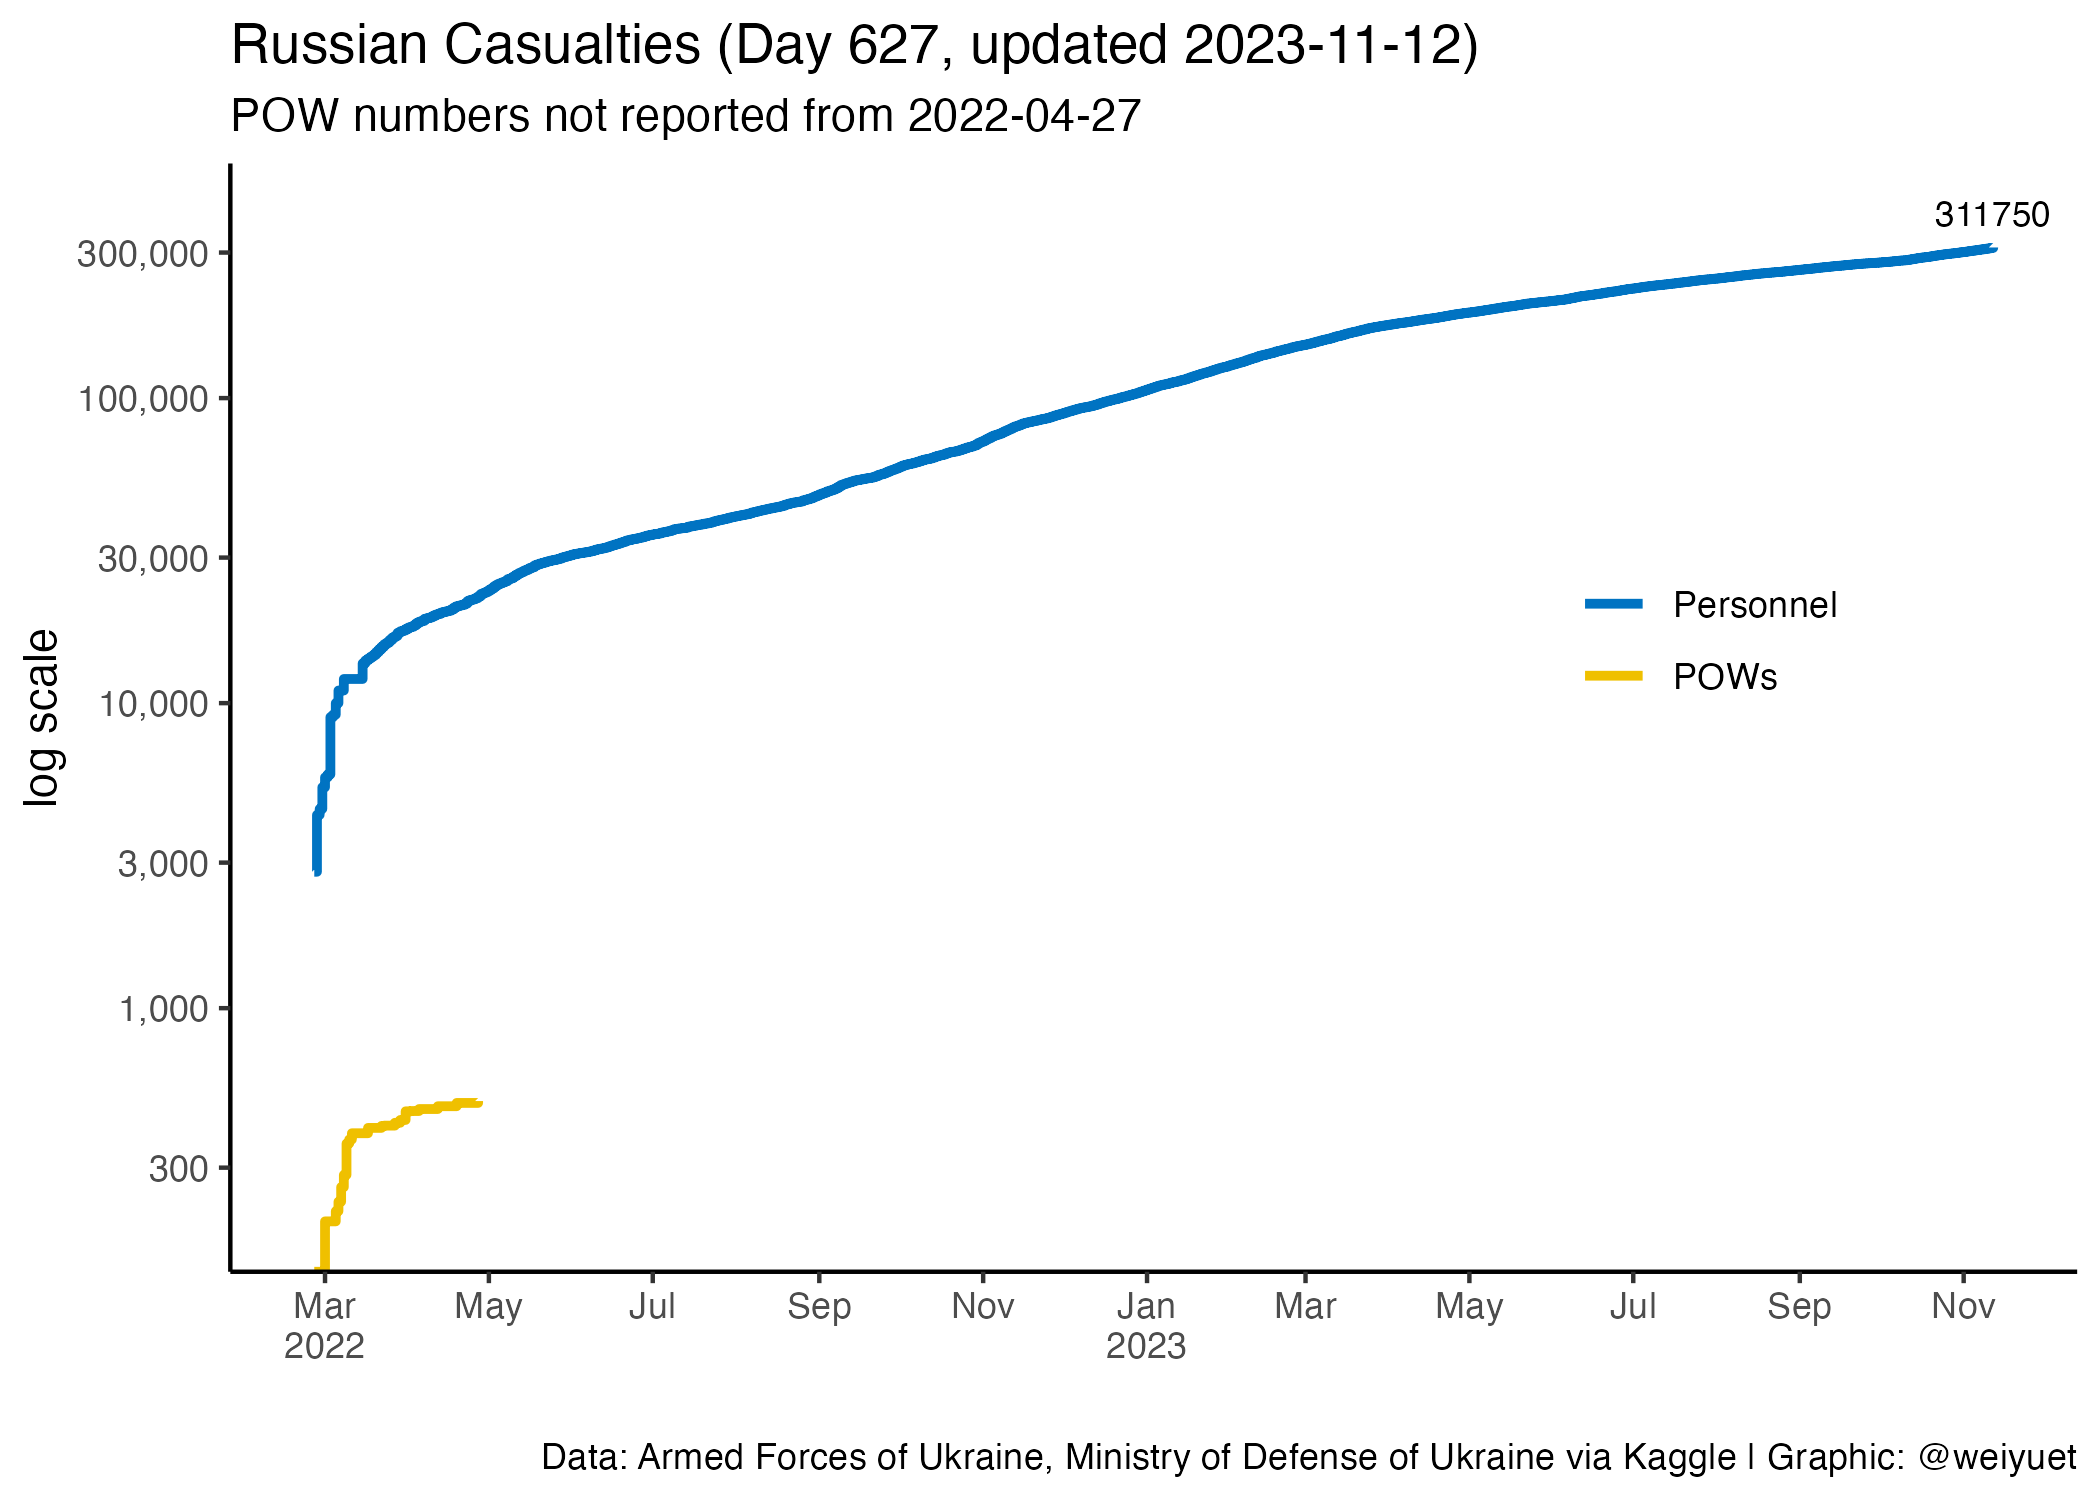
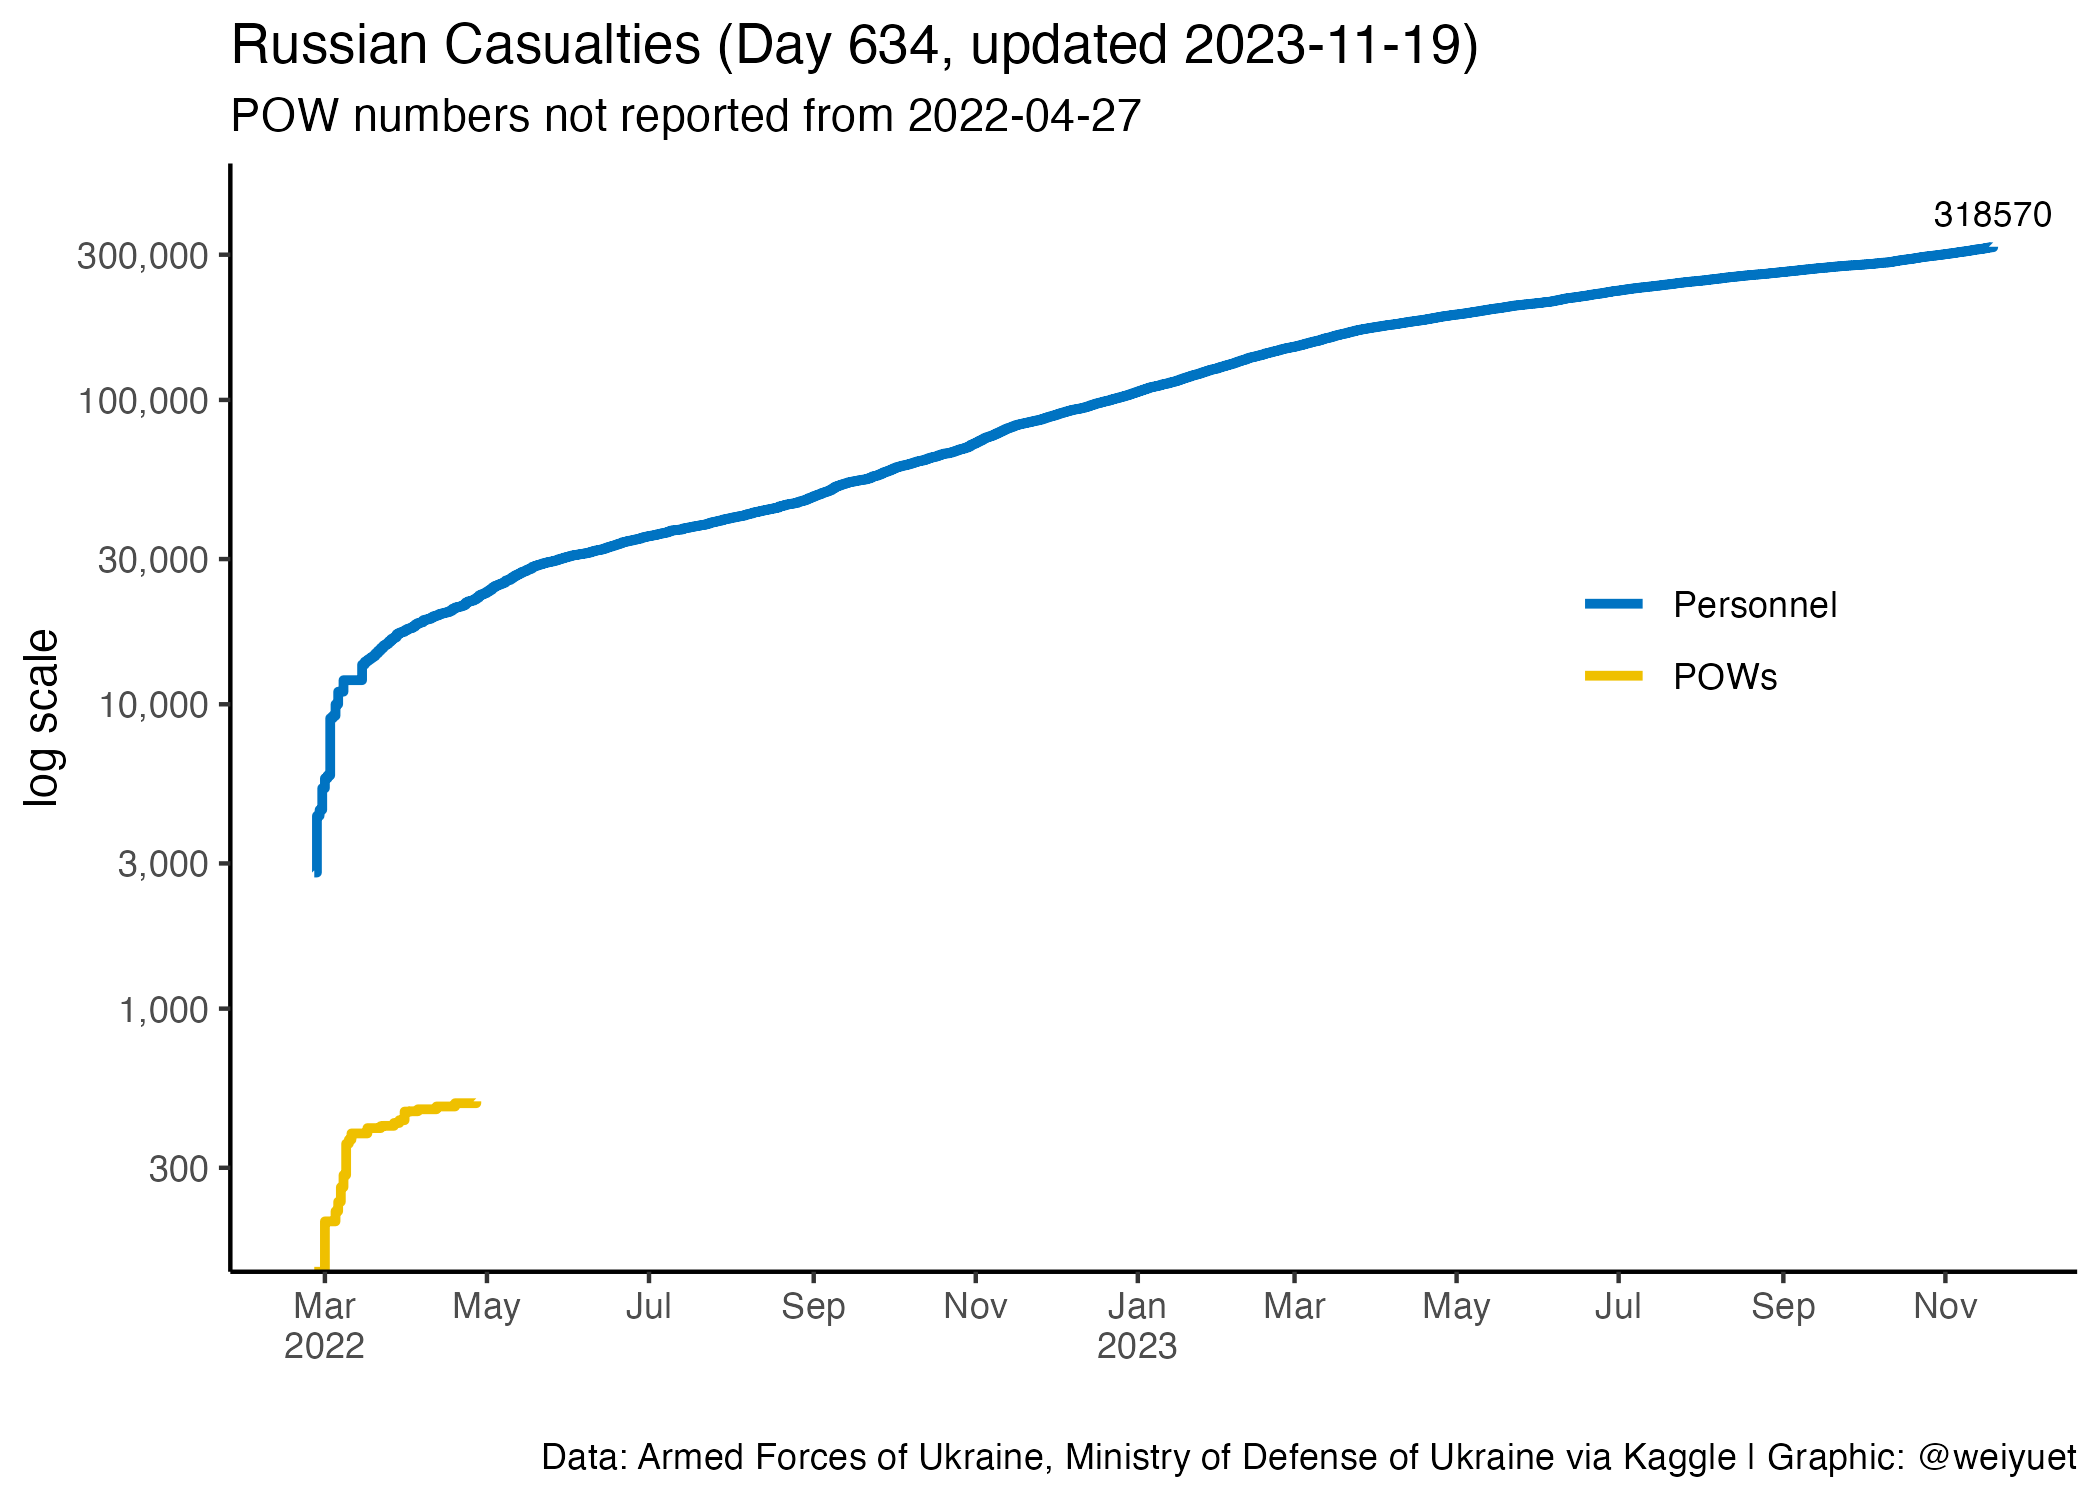
Updated 19 November

diff --git a/README.md b/README.md
@@ -6,7 +6,7 @@ Wong Wei Yuet 2022-05-26
 
   - War casualty data updated daily from [`Petro Ivanyuk's Kaggle`](https://www.kaggle.com/datasets/piterfm/2022-ukraine-russian-war). All data is official and put together by `Petro`
 
-Updated: 2023-11-13
+Updated: 2023-11-19
 
 ## Summary of Conflict
 
